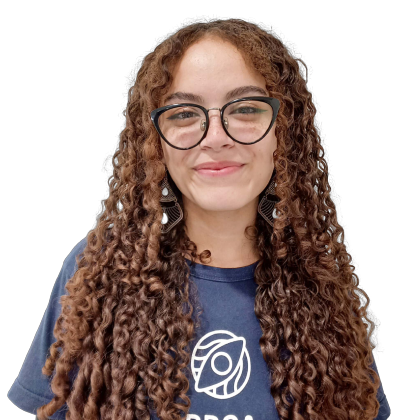
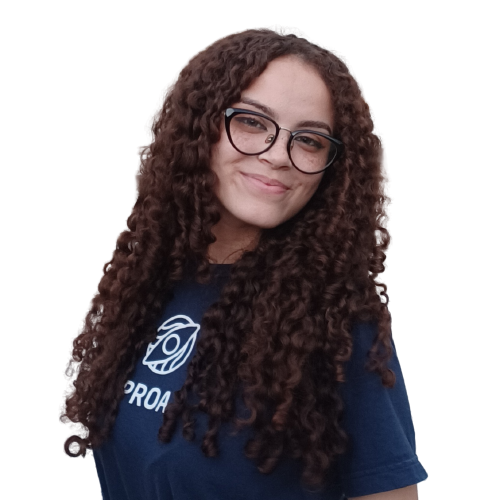
Alterando a foto e as cores do perfil da Alinny

diff --git a/assets/html/curriculos/alinny/projetos.html b/assets/html/curriculos/alinny/projetos.html
@@ -24,7 +24,7 @@
                 <button class="boxButton">
                     <div class="botao">
                         <img class="imgIcon" src="../../../img/Projetos.svg"/>
-                        <p class="txtIcon"  style="border-bottom: 0.25em solid #D9415A;">Projetos</p>
+                        <p class="txtIcon"  style="border-bottom: 0.25em solid #820342;">Projetos</p>
                     </div>
                 </button>
                 <button class="boxButton" onclick="irPara('./formacao.html')">
@@ -42,17 +42,17 @@
             <div class="conteudoProjetos">
                 <div class="textoProjeto">
                     <h2>DEMODAY - FLOR NAGÔ (06/02/23 - 04/07/23)</h2>
-                    <hr style="background-color: #D9415A; height: 0.25rem; border: none;">
+                    <hr style="background-color: #820342; height: 0.25rem; border: none;">
                     <p>Desenvolvedora Back-End e Database Administrator (DBA) do projeto Flor Nagô, rede social focada em dar visibilidade ao empreendedor preto que trabalhe com a cultura afro. Dando mais visibilidade e divulgação ao trabalho dessas pessoas.</p>
                 </div>
                 <div class="textoProjeto">
                     <h2>PLATAFORMA WEB PARA A BIBLIOTECA JK (02/2022 - 12/2022)</h2>
-                    <hr style="background-color: #D9415A; height: 0.25rem; border: none;">
+                    <hr style="background-color: #820342; height: 0.25rem; border: none;">
                     <p>Desenvolvedora full-stack do TCC premiado ("Melhor TCC técnico da tura de Desenvolvimento de Sistemas no período da tarde") que tinha como objetivo informatizar o sistema da biblioteca da ETEC Juscelino Kubistcheck, fornecendo mais agilidade e facilidade na administração dos livros e empréstimos realizados.</p>
                 </div>
                 <div class="textoProjeto">
                     <h2>LÍDER DA EQUIPE FEMININA DE XADREZ DA ETEC JK (02/2022 – 12/2022)</h2>
-                    <hr style="background-color: #D9415A; height: 0.25rem; border: none;">
+                    <hr style="background-color: #820342; height: 0.25rem; border: none;">
                     <p>Líderei, durante meu terceiro ano a equipe feminina de xadrez para os jogos escolares da região de Diadema, faltou apenas uma partida para que chegássemos ao estadual, eu era líder do grupo, e também jogava na categoria individual. Esse ano (2023), depois de seguir auziliando as meninas nos treinos, elas conseguiram passar para o estadual coletivo.</p>
                 </div>
             </div>

diff --git a/assets/html/curriculos/alinny/formacao.html b/assets/html/curriculos/alinny/formacao.html
@@ -30,7 +30,7 @@
                 <button class="boxButton">
                     <div class="botao">
                         <img class="imgIcon" src="../../../img/Formacao.svg"/>
-                        <p class="txtIcon"  style="border-bottom: 0.25em solid #D9415A;">Formação</p>
+                        <p class="txtIcon"  style="border-bottom: 0.25em solid #820342;">Formação</p>
                     </div>
                 </button>
                 <button class="boxButton" onclick="irPara('../../curriculos.html')">
@@ -42,24 +42,24 @@
             <div class="conteudoFormacao">
                 <div class="textoFormacao">
                     <h2> FATEC DIADEMA (LUIGI PAPAIZ) - 01/2023 a 12/2025</h2>
-                    <hr style="background-color: #D9415A; height: 0.25rem; border: none;">
+                    <hr style="background-color: #820342; height: 0.25rem; border: none;">
                     <p>Tecnologo em Desenvolvimento de Software Multiplataformas - 2° semestre</p>
                 </div>
                 <div class="textoFormacao">
                     <h2>INSTITUTO PROA - 02/2023 a 07/2023</h2>
-                    <hr style="background-color: #D9415A; height: 0.25rem; border: none;">
+                    <hr style="background-color: #820342; height: 0.25rem; border: none;">
                     <p>Curso PROPROFISSÃO 4.0 em Tecnologia</p>
                     <p>Carga horária: 440h</p>
                 </div>
                 <div class="textoFormacao">
                     <h2>ESCOLA DA NUVEM - 04/2023 a 06/2023</h2>
-                    <hr style="background-color: #D9415A; height: 0.25rem; border: none;">
+                    <hr style="background-color: #820342; height: 0.25rem; border: none;">
                     <p>Curso Fundamentos AWS</p>
                     <p>Carga horária: 124h</p>
                 </div>
                 <div class="textoFormacao">
-                    <h2> ETEC JUSCELINO KUBITSCHECK – 07/2021 a 12/2022</h2>
-                    <hr style="background-color: #D9415A; height: 0.25rem; border: none;">
+                    <h2> ETEC JUSCELINO KUBITSCHECK - 07/2021 a 12/2022</h2>
+                    <hr style="background-color: #820342; height: 0.25rem; border: none;">
                     <p>Técnico em Desenvolvimento de Sistemas - Concluído</p>
                 </div>
             </div>

diff --git a/assets/html/curriculos/alinny/perfil.html b/assets/html/curriculos/alinny/perfil.html
@@ -13,7 +13,7 @@
             <nav>
                 <button class="boxButton">  
                     <img class="imgIcon" src="../../../img/PerfilProfissional.svg"/>
-                    <p class="txtIcon"  style="border-bottom: 0.25em solid #FF5B69;">Perfil Profissional</p>
+                    <p class="txtIcon"  style="border-bottom: 0.25em solid #820342;">Perfil Profissional</p>
                 </button>
                 <button class="boxButton" onclick="irPara('./habilidades.html')">
                     <div class="botao">
@@ -40,7 +40,7 @@
                 </button>
             </nav>
             <div class="conteudoCurriculo">
-                <img class="imgPerfil" style="background-color: #D9415A;" src="../../../img/imgAlinny.png"/>
+                <img class="imgPerfil" style="background-color: #820342;" src="../../../img/imgAlinny.png"/>
                 
                 <div class="txtPerfil">
                     <h1>Alinny Ribeiro da Cunha</h1>
@@ -48,13 +48,13 @@
                 </div>
                 
                 <div class="contatoIcons">
-                    <button class="iconSocial" style="background-color: #D9415A;">
+                    <button class="iconSocial" style="background-color: #820342;">
                         <img src="../../../img/githubLogo.svg"/>
                     </button>
-                    <button class="iconSocial" style="background-color: #D9415A;">
+                    <button class="iconSocial" style="background-color: #820342;">
                         <img src="../../../img/gmailLogo.svg"/>
                     </button>
-                    <button class="iconSocial" style="background-color: #D9415A;">
+                    <button class="iconSocial" style="background-color: #820342;">
                         <img src="../../../img/linkedinLogo.svg"/>   
                     </button>                 
                 </div>

diff --git a/assets/html/curriculos/alinny/habilidades.html b/assets/html/curriculos/alinny/habilidades.html
@@ -8,7 +8,7 @@
     <link rel="stylesheet" type="txt/css" href="../../../css/habilidades.css">
     <style>
         .quadrados li::before{
-            background-color: #D9415A; 
+            background-color: #820342; 
         }
     </style>
 </head>
@@ -24,7 +24,7 @@
                 <button class="boxButton">
                     <div class="botao">
                         <img class="imgIcon" src="../../../img/Habilidades.svg"/>
-                        <p class="txtIcon"  style="border-bottom: 0.25em solid #D9415A;">Habilidades</p>
+                        <p class="txtIcon"  style="border-bottom: 0.25em solid #820342;">Habilidades</p>
                     </div>
                 </button>
                 <button class="boxButton" onclick="irPara('./projetos.html')">

diff --git a/assets/html/curriculos.html b/assets/html/curriculos.html
@@ -51,7 +51,7 @@
               </div>
             </li>
             <li class="card">
-              <img class="img-listaCv" src="../img/imgAlinny.png" style="background-color: #D9415A;" alt="" />
+              <img class="img-listaCv" src="../img/imgAlinny.png" style="background-color: #820342;" alt="" />
               <div class="card-conteudo">
                 <h4><a href="./curriculos/alinny/perfil.html">Alinny Ribeiro da Cunha</a></h4>
                 <p>
